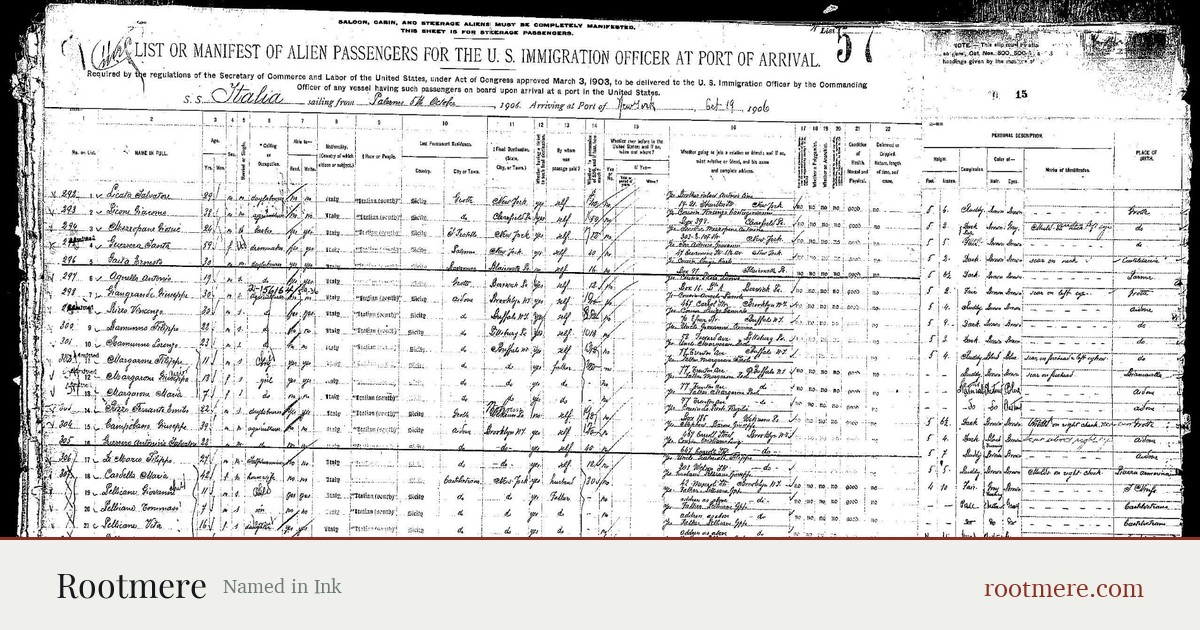
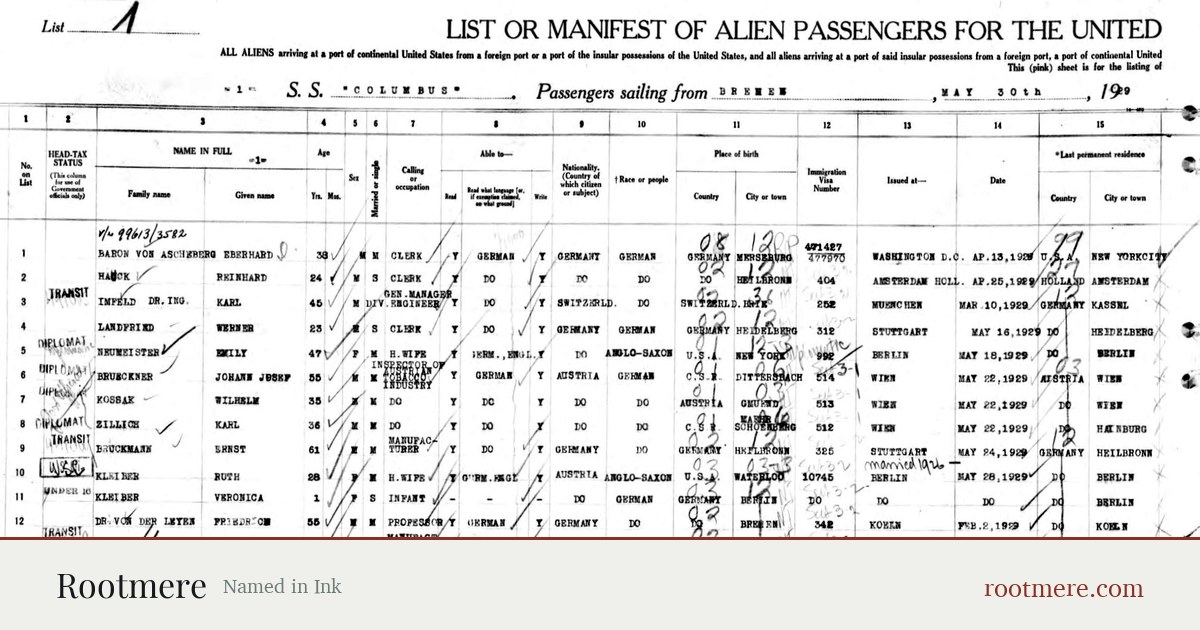
Articles: silence figure = 1929 Bremen manifest (birthplace column highlighted, PD Commons); og_ellis rebuilt from it (was an Italian Palermo sailing)

diff --git a/article-silence/index.html b/article-silence/index.html
@@ -680,6 +680,7 @@ li[data-row].on .rowno{background:var(--seal);color:var(--paper)}
 .fig .hl .rowno{position:absolute;left:4px;top:50%;margin-top:-11px}
 .fig .hl{opacity:.35}.fig .hl.on{opacity:1}
 @media(max-width:700px){.fig-rev .fig-scan{overflow-x:auto;-webkit-overflow-scrolling:touch}.fig-rev .fig-scan img{width:640px;max-width:none}.fig-rev .fig-scan .hl{right:auto;width:640px}}
+.fig .hl-col{top:0;bottom:0;right:auto;opacity:1}
 </style>
 </head>
 <body><nav><div class="w">
@@ -736,6 +737,7 @@ li[data-row].on .rowno{background:var(--seal);color:var(--paper)}
   <h2>The American papers usually say more than Grandma did</h2>
 
   <p>Even someone who never mentioned the old country had to give answers to clerks. The passenger list asked where she was coming from. A naturalization after 1906 usually asked where she was born. Marriage records, a church wedding in Cleveland or Scranton, sometimes name the parents and the home parish. Put two or three of those side by side and the village often falls out, even when no one in the family ever said its name. We wrote about that in <a href="/article-village/">finding the village</a>, and about the <a href="/article-spelling/">spelling</a> problem that tends to come next.</p>
+  <figure class="fig"><div class="fig-scan"><img src="/img/manifest_bremen1929.jpg" width="1400" height="1085" alt="A 1929 manifest, S.S. Columbus from Bremen. The place-of-birth column names the town: Dittersbach, Deta, Budapest." loading="lazy"><i class="hl on hl-col" style="left:86.5%;width:7.8%"></i></div><figcaption>A 1929 manifest, S.S. Columbus from Bremen. The place-of-birth column names the town: Dittersbach, Deta, Budapest. Source: Wikimedia Commons, public domain.</figcaption></figure>
 
   <p>And if you still have someone in the middle generation, an aunt, a much older cousin, it's worth asking small questions instead of big ones. Not "where did we come from" but "what did she cook at Christmas" or "who sent letters". People who'd shrug at the big question often remember the small one.</p>
 
@@ -750,7 +752,7 @@ li[data-row].on .rowno{background:var(--seal);color:var(--paper)}
   <p>Send us her name, roughly when she came, and anything at all: a city she lived in, a church, a surname from her side. We'll tell you which American records are most likely to name her village and what we'd look at first. That first answer costs nothing.</p>
   <a class="cta sm" href="mailto:hello@rootmere.com?subject=She%20never%20talked%20about%20the%20old%20country">Write to us</a><br><button type="button" class="copyaddr" data-addr="hello@rootmere.com">or copy hello@rootmere.com</button>
   <p class="cta-note" style="margin-top:12px;font-size:.92em;color:var(--ink-2)">The first answer is free. If the books look promising, the next step is archival scouting: $190, 5–7 days, credited against the project. <a href="/#how">How it works</a></p>
-  <div class="readnext"><p class="toc-h">Keep reading</p><div class="rn-grid"><a class="rn" href="/article-migration/"><img src="/img/og_migration.jpg" width="1200" height="630" alt="" loading="lazy"><span>They didn't leave because they wanted to</span></a><a class="rn" href="/article-ellis/"><img src="/img/og_ellis.jpg" width="1200" height="630" alt="" loading="lazy"><span>Nobody changed your name at Ellis Island</span></a><a class="rn" href="/article-gap/"><img src="/img/og_gap.jpg" width="1200" height="630" alt="" loading="lazy"><span>Thirty years of nothing: when the registers stop</span></a></div><p class="rn-more"><a href="/article-village/">Which village did they come from?</a> · <a href="/article-faces/">The faces with no names</a> · <a href="/article-burned/">"But surely it all burned"</a> · <a href="/#how">How a search works, and what it costs</a></p></div>
+  <div class="readnext"><p class="toc-h">Keep reading</p><div class="rn-grid"><a class="rn" href="/article-migration/"><img src="/img/og_migration.jpg" width="1200" height="630" alt="" loading="lazy"><span>They didn't leave because they wanted to</span></a><a class="rn" href="/article-gap/"><img src="/img/og_gap.jpg" width="1200" height="630" alt="" loading="lazy"><span>Thirty years of nothing: when the registers stop</span></a><a class="rn" href="/article-revisions/"><img src="/img/og_revisions.jpg" width="1200" height="630" alt="" loading="lazy"><span>Revision lists: an extra generation</span></a></div><p class="rn-more"><a href="/article-village/">Which village did they come from?</a> · <a href="/article-faces/">The faces with no names</a> · <a href="/article-burned/">"But surely it all burned"</a> · <a href="/#how">How a search works, and what it costs</a></p></div>
 </div></section>
 
 <footer><div class="w row">

diff --git a/article-ellis/index.html b/article-ellis/index.html
@@ -14,7 +14,7 @@
 <meta property="og:image" content="https://rootmere.com/img/og_ellis.jpg">
 <meta property="og:image:width" content="1200">
 <meta property="og:image:height" content="630">
-<meta property="og:image:alt" content="A 1906 passenger manifest, names written in Europe before the voyage — Rootmere">
+<meta property="og:image:alt" content="A 1929 passenger manifest from Bremen, names written in Europe before the voyage — Rootmere">
 <meta name="twitter:image" content="https://rootmere.com/img/og_ellis.jpg">
 <script type="application/ld+json">{"@context": "https://schema.org", "@type": "BlogPosting", "headline": "Nobody Changed Your Name at Ellis Island", "description": "Inspectors checked arrivals against passenger lists written in Europe; name changes came later, by the family's own choice. So the original name is still on the manifest and in the village parish books, and it can be traced.", "inLanguage": "en", "url": "https://rootmere.com/article-ellis/", "mainEntityOfPage": {"@type": "WebPage", "@id": "https://rootmere.com/article-ellis/"}, "image": "https://rootmere.com/img/og_ellis.jpg", "datePublished": "2026-11-02", "dateModified": "2026-11-02", "author": {"@type": "Organization", "name": "Rootmere", "url": "https://rootmere.com/"}, "publisher": {"@type": "Organization", "name": "Rootmere", "logo": {"@type": "ImageObject", "url": "https://rootmere.com/img/og_default.jpg"}}, "isPartOf": {"@type": "WebSite", "name": "Rootmere", "url": "https://rootmere.com/"}}</script>
 <script type="application/ld+json">
@@ -680,6 +680,7 @@ li[data-row].on .rowno{background:var(--seal);color:var(--paper)}
 .fig .hl .rowno{position:absolute;left:4px;top:50%;margin-top:-11px}
 .fig .hl{opacity:.35}.fig .hl.on{opacity:1}
 @media(max-width:700px){.fig-rev .fig-scan{overflow-x:auto;-webkit-overflow-scrolling:touch}.fig-rev .fig-scan img{width:640px;max-width:none}.fig-rev .fig-scan .hl{right:auto;width:640px}}
+.fig .hl-col{top:0;bottom:0;right:auto;opacity:1}
 </style>
 </head>
 <body><nav><div class="w">
@@ -705,7 +706,7 @@ li[data-row].on .rowno{background:var(--seal);color:var(--paper)}
 <header class="hero art-hero"><div class="w narrow">
   <p class="kicker">When the family says "they changed our name at Ellis Island"<span class="readtime">4 min read</span></p>
   <h1>Nobody changed your name at Ellis Island.<br><em>Which means the real one is still out there.</em></h1>
-  <figure class="art-cover"><img src="/img/og_ellis.jpg" width="1200" height="538" alt="A 1906 passenger manifest, names written in Europe before the voyage — Rootmere" fetchpriority="high"><figcaption>A 1906 passenger manifest, names written in Europe before the voyage</figcaption></figure>
+  <figure class="art-cover"><img src="/img/og_ellis.jpg" width="1200" height="538" alt="A 1929 passenger manifest from Bremen, names written in Europe before the voyage — Rootmere" fetchpriority="high"><figcaption>A 1929 passenger manifest from Bremen, names written in Europe before the voyage</figcaption></figure>
   <p class="lede">It's one of the most common things families say about how they got here: a tired clerk couldn't spell the name, wrote down something shorter, and that was that. It feels like a small, sad detail. But it quietly does real damage, because if the name was lost at the door, why would anyone go looking for it? The good news is that the story is almost never true. The old name wasn't lost. It was written down, more than once, and most of those pages still exist.</p>
 </div></header>
 <div class="toc" role="navigation" aria-label="In this article"><div class="w narrow"><details open><summary>In this article · 3 parts</summary><ol><li><a href="#story">Ellis Island became shorthand for everything hard</a></li><li><a href="#list">The clerk didn't write the name. He read it.</a></li><li><a href="#later">Usually the family did, a few years later</a></li></ol></details></div></div>

diff --git a/article-burned/index.html b/article-burned/index.html
@@ -680,6 +680,7 @@ li[data-row].on .rowno{background:var(--seal);color:var(--paper)}
 .fig .hl .rowno{position:absolute;left:4px;top:50%;margin-top:-11px}
 .fig .hl{opacity:.35}.fig .hl.on{opacity:1}
 @media(max-width:700px){.fig-rev .fig-scan{overflow-x:auto;-webkit-overflow-scrolling:touch}.fig-rev .fig-scan img{width:640px;max-width:none}.fig-rev .fig-scan .hl{right:auto;width:640px}}
+.fig .hl-col{top:0;bottom:0;right:auto;opacity:1}
 </style>
 </head>
 <body><nav><div class="w">

diff --git a/article-child/index.html b/article-child/index.html
@@ -680,6 +680,7 @@ li[data-row].on .rowno{background:var(--seal);color:var(--paper)}
 .fig .hl .rowno{position:absolute;left:4px;top:50%;margin-top:-11px}
 .fig .hl{opacity:.35}.fig .hl.on{opacity:1}
 @media(max-width:700px){.fig-rev .fig-scan{overflow-x:auto;-webkit-overflow-scrolling:touch}.fig-rev .fig-scan img{width:640px;max-width:none}.fig-rev .fig-scan .hl{right:auto;width:640px}}
+.fig .hl-col{top:0;bottom:0;right:auto;opacity:1}
 </style>
 </head>
 <body><nav><div class="w">

diff --git a/article-citizenship/index.html b/article-citizenship/index.html
@@ -680,6 +680,7 @@ li[data-row].on .rowno{background:var(--seal);color:var(--paper)}
 .fig .hl .rowno{position:absolute;left:4px;top:50%;margin-top:-11px}
 .fig .hl{opacity:.35}.fig .hl.on{opacity:1}
 @media(max-width:700px){.fig-rev .fig-scan{overflow-x:auto;-webkit-overflow-scrolling:touch}.fig-rev .fig-scan img{width:640px;max-width:none}.fig-rev .fig-scan .hl{right:auto;width:640px}}
+.fig .hl-col{top:0;bottom:0;right:auto;opacity:1}
 </style>
 </head>
 <body><nav><div class="w">

diff --git a/article-dna/index.html b/article-dna/index.html
@@ -680,6 +680,7 @@ li[data-row].on .rowno{background:var(--seal);color:var(--paper)}
 .fig .hl .rowno{position:absolute;left:4px;top:50%;margin-top:-11px}
 .fig .hl{opacity:.35}.fig .hl.on{opacity:1}
 @media(max-width:700px){.fig-rev .fig-scan{overflow-x:auto;-webkit-overflow-scrolling:touch}.fig-rev .fig-scan img{width:640px;max-width:none}.fig-rev .fig-scan .hl{right:auto;width:640px}}
+.fig .hl-col{top:0;bottom:0;right:auto;opacity:1}
 </style>
 </head>
 <body><nav><div class="w">

diff --git a/article-faces/index.html b/article-faces/index.html
@@ -680,6 +680,7 @@ li[data-row].on .rowno{background:var(--seal);color:var(--paper)}
 .fig .hl .rowno{position:absolute;left:4px;top:50%;margin-top:-11px}
 .fig .hl{opacity:.35}.fig .hl.on{opacity:1}
 @media(max-width:700px){.fig-rev .fig-scan{overflow-x:auto;-webkit-overflow-scrolling:touch}.fig-rev .fig-scan img{width:640px;max-width:none}.fig-rev .fig-scan .hl{right:auto;width:640px}}
+.fig .hl-col{top:0;bottom:0;right:auto;opacity:1}
 </style>
 </head>
 <body><nav><div class="w">

diff --git a/article-funeral/index.html b/article-funeral/index.html
@@ -680,6 +680,7 @@ li[data-row].on .rowno{background:var(--seal);color:var(--paper)}
 .fig .hl .rowno{position:absolute;left:4px;top:50%;margin-top:-11px}
 .fig .hl{opacity:.35}.fig .hl.on{opacity:1}
 @media(max-width:700px){.fig-rev .fig-scan{overflow-x:auto;-webkit-overflow-scrolling:touch}.fig-rev .fig-scan img{width:640px;max-width:none}.fig-rev .fig-scan .hl{right:auto;width:640px}}
+.fig .hl-col{top:0;bottom:0;right:auto;opacity:1}
 </style>
 </head>
 <body><nav><div class="w">

diff --git a/article-migration/index.html b/article-migration/index.html
@@ -680,6 +680,7 @@ li[data-row].on .rowno{background:var(--seal);color:var(--paper)}
 .fig .hl .rowno{position:absolute;left:4px;top:50%;margin-top:-11px}
 .fig .hl{opacity:.35}.fig .hl.on{opacity:1}
 @media(max-width:700px){.fig-rev .fig-scan{overflow-x:auto;-webkit-overflow-scrolling:touch}.fig-rev .fig-scan img{width:640px;max-width:none}.fig-rev .fig-scan .hl{right:auto;width:640px}}
+.fig .hl-col{top:0;bottom:0;right:auto;opacity:1}
 </style>
 </head>
 <body><nav><div class="w">

diff --git a/article-partitions/index.html b/article-partitions/index.html
@@ -680,6 +680,7 @@ li[data-row].on .rowno{background:var(--seal);color:var(--paper)}
 .fig .hl .rowno{position:absolute;left:4px;top:50%;margin-top:-11px}
 .fig .hl{opacity:.35}.fig .hl.on{opacity:1}
 @media(max-width:700px){.fig-rev .fig-scan{overflow-x:auto;-webkit-overflow-scrolling:touch}.fig-rev .fig-scan img{width:640px;max-width:none}.fig-rev .fig-scan .hl{right:auto;width:640px}}
+.fig .hl-col{top:0;bottom:0;right:auto;opacity:1}
 </style>
 </head>
 <body><nav><div class="w">

diff --git a/article-peasants/index.html b/article-peasants/index.html
@@ -680,6 +680,7 @@ li[data-row].on .rowno{background:var(--seal);color:var(--paper)}
 .fig .hl .rowno{position:absolute;left:4px;top:50%;margin-top:-11px}
 .fig .hl{opacity:.35}.fig .hl.on{opacity:1}
 @media(max-width:700px){.fig-rev .fig-scan{overflow-x:auto;-webkit-overflow-scrolling:touch}.fig-rev .fig-scan img{width:640px;max-width:none}.fig-rev .fig-scan .hl{right:auto;width:640px}}
+.fig .hl-col{top:0;bottom:0;right:auto;opacity:1}
 </style>
 </head>
 <body><nav><div class="w">

diff --git a/article-records/index.html b/article-records/index.html
@@ -680,6 +680,7 @@ li[data-row].on .rowno{background:var(--seal);color:var(--paper)}
 .fig .hl .rowno{position:absolute;left:4px;top:50%;margin-top:-11px}
 .fig .hl{opacity:.35}.fig .hl.on{opacity:1}
 @media(max-width:700px){.fig-rev .fig-scan{overflow-x:auto;-webkit-overflow-scrolling:touch}.fig-rev .fig-scan img{width:640px;max-width:none}.fig-rev .fig-scan .hl{right:auto;width:640px}}
+.fig .hl-col{top:0;bottom:0;right:auto;opacity:1}
 </style>
 </head>
 <body><nav><div class="w">
